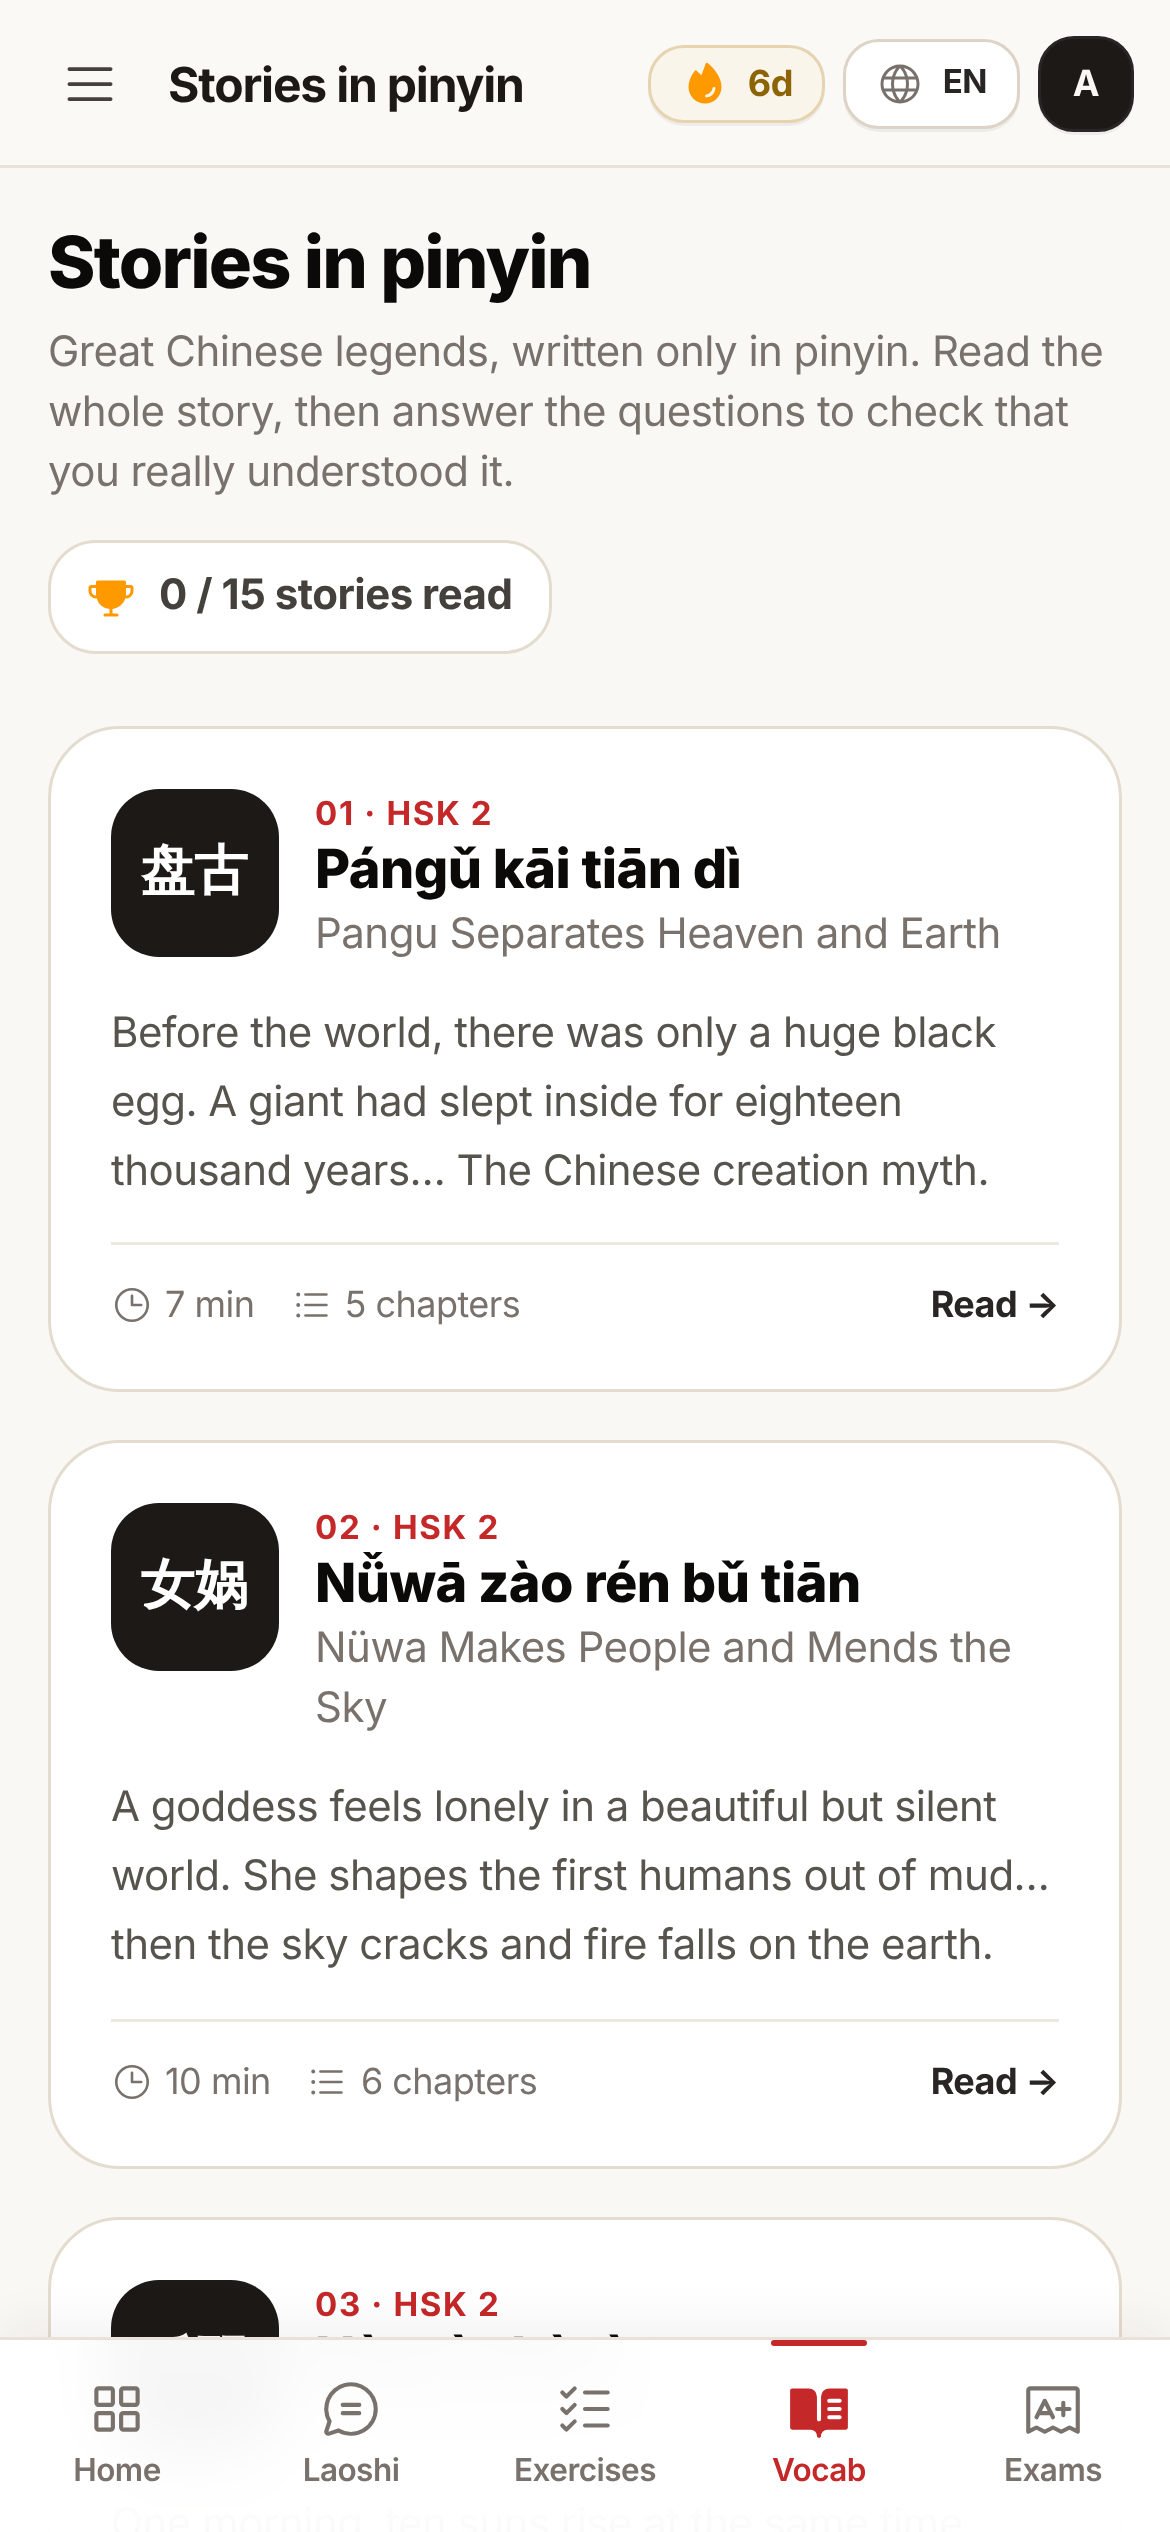
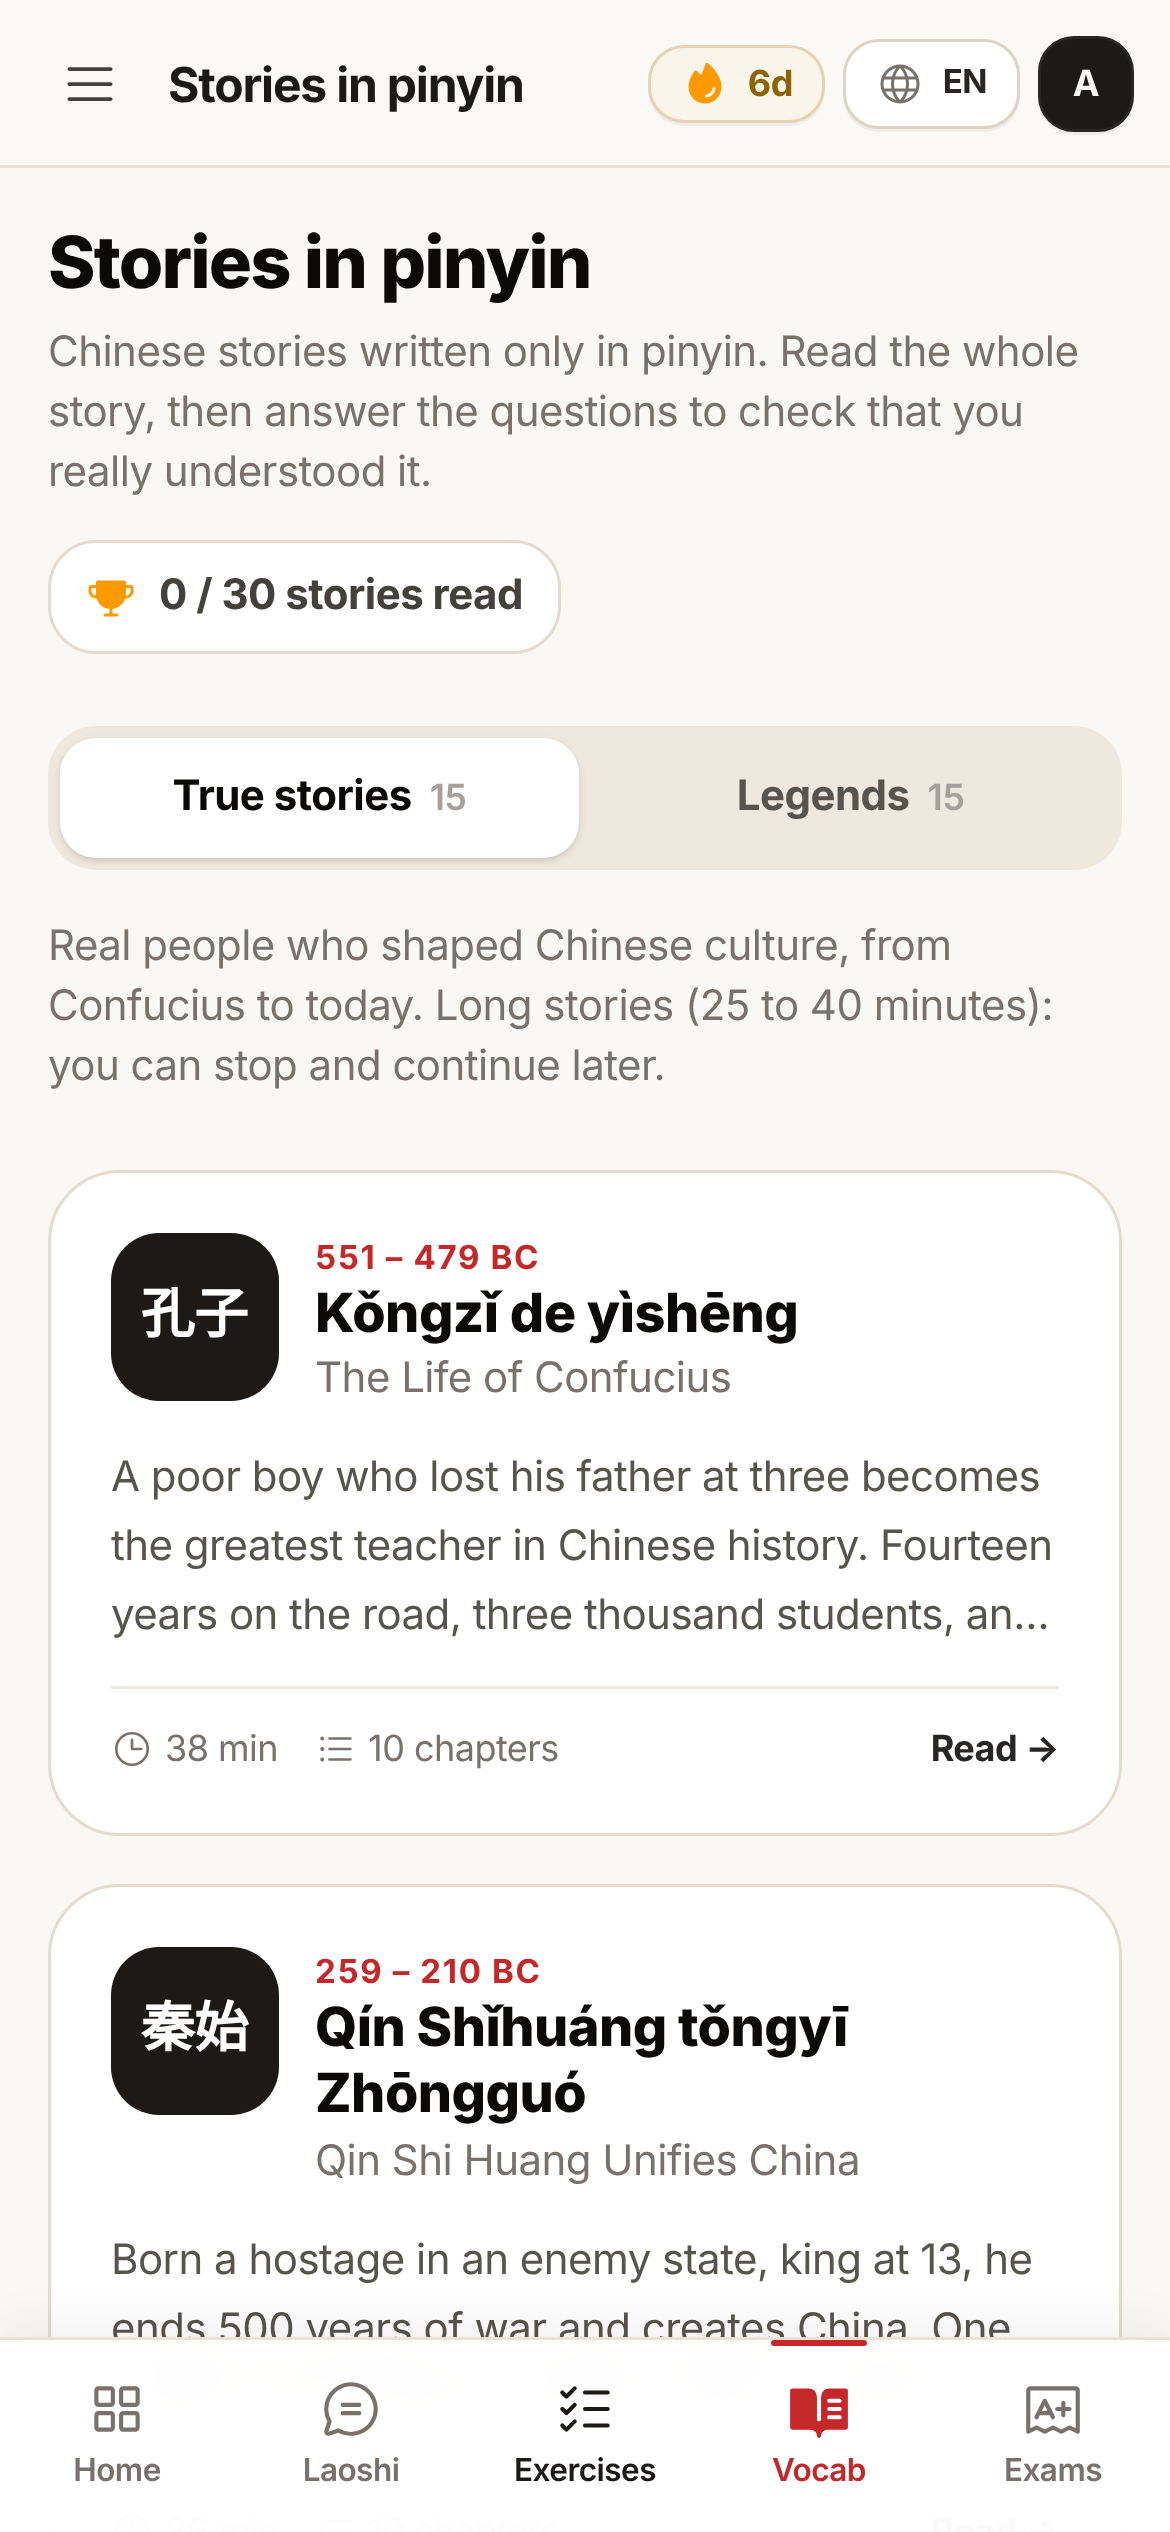
X thread, Facebook text and app features update for 2026-11-05
Claude-Session: https://claude.ai/code/session_01RtgC9DshBJoBH3ZRy4TPz1

diff --git a/assets/APP-FEATURES.md b/assets/APP-FEATURES.md
@@ -1,4 +1,4 @@
-# HSK Path — fonctionnalités de l'app (à jour : commit 773d5a9 de main, 2 nov. 2026)
+# HSK Path — fonctionnalités de l'app (à jour : commit 454f96d de main, 5 nov. 2026)
 
 Site : https://hsk-path-eosin.vercel.app — UI en anglais, français, chinois. PWA installable (s'ouvre hors ligne une fois connecté).
 Gratuit : tout le HSK 1. HSK 2 & 3 : 2 examens blancs + 2 leçons gratuits, le reste en Pro (ne jamais annoncer de prix).
@@ -7,15 +7,16 @@ Gratuit : tout le HSK 1. HSK 2 & 3 : 2 examens blancs + 2 leçons gratuits, le r
 - Cours HSK 1, 2, 3 (nouveau programme HSK 3.0) : leçons avec écran de félicitations (XP + « Next lesson »), leçons terminées cochées, progression réelle par niveau.
 - Vocabulaire : 1 000 mots HSK 1–3, révision espacée (SRS), mode flashcards, masquer le pinyin.
 - Everyday phrases : 168 phrases du quotidien par situation et par niveau, avec audio et bouton « dire la phrase ».
-- **Stories in pinyin (NOUVEAU)** : 15 légendes chinoises écrites en pinyin, avec lecteur, glossaire, audio et quiz de compréhension (13–14 questions par histoire).
-  HSK 2 : Pángǔ kāi tiān dì (Pangu), Nǚwā zào rén bǔ tiān (Nüwa), Hòuyì shè rì (Houyi), Cháng'é bēn yuè (Chang'e), Jīngwèi tián hǎi, Yúgōng yí shān (Foolish Old Man), Niánshòu (Nian monster), Shénbǐ Mǎ Liáng (Magic Brush).
+- **Stories in pinyin (NOUVEAU)** : 30 histoires écrites en pinyin (2 onglets : True stories 15 / Legends 15), avec lecteur, toucher un mot pour voir son sens, glossaire, audio, affichage 汉字 en option, traduction EN/FR (bouton Translation ou « See the translation » par paragraphe), quiz de compréhension (13–14 questions par histoire).
+  **True stories (nouveau, 15, niveau HSK 3, longues : 25–40 min, on peut s'arrêter et reprendre)** : Confucius, Qin Shi Huang, Zhang Qian (route de la soie), Sima Qian, Cai Lun (papier), Li Bing (Dujiangyan), Xuanzang, Jianzhen, Li Bai, Zheng He, Yue Fei, Li Shizhen, Zhan Tianyou (chemin de fer Pékin–Zhangjiakou), Tu Youyou (artémisinine), Yuan Longping (riz hybride).
+  **Legends (15, courtes : 7–15 min)** — HSK 2 : Pángǔ kāi tiān dì (Pangu), Nǚwā zào rén bǔ tiān (Nüwa), Hòuyì shè rì (Houyi), Cháng'é bēn yuè (Chang'e), Jīngwèi tián hǎi, Yúgōng yí shān (Foolish Old Man), Niánshòu (Nian monster), Shénbǐ Mǎ Liáng (Magic Brush).
   HSK 3 : Niúláng Zhīnǚ (Cowherd & Weaver Girl), Huā Mùlán, Bái shé zhuàn (White Snake), Butterfly Lovers, Mèng Jiāngnǚ, Monkey King in Heaven, Cǎo chuán jiè jiàn (Straw Boats).
 
 ## Parler (NOUVEAU)
 - **Pronunciation** : tons, mots HSK et phrases des leçons ; ta voix est comparée au modèle (voix homme/femme) avec retour sur les tons.
 - **Speaking practice partout** : « say it » sur les phrases et flashcards, jeux de rôle dans les leçons, répétition de répliques.
 - **HSK 3.0 speaking test** : 3 tâches (répéter des phrases, décrire une image, répondre à une question) avec transcription de la voix et retour de Laoshi ; test complet ~10 min.
-- Laoshi (tuteur IA) : conversation écrite ou à la voix, pinyin, explications (compte requis).
+- Laoshi (tuteur IA) : conversation écrite ou à la voix, pinyin, explications (compte requis). Depuis le 2 nov. : mène la leçon comme un professeur (enseigne un point à chaque tour, vérifie la compréhension) et garde le fil de la conversation.
 
 ## Pratique & examens
 - Practice Center : quiz quotidien adaptatif, écoute, lecture, écriture.
@@ -27,5 +28,5 @@ Gratuit : tout le HSK 1. HSK 2 & 3 : 2 examens blancs + 2 leçons gratuits, le r
 - Dashboard : prochaine leçon réelle, gros bouton démarrer / sauver la série.
 
 ## Captures (assets/app-screens/, mode démo — données d'exemple, ne pas présenter comme de vrais résultats)
-landing, dashboard, hsk-levels, vocabulary, phrases, novels (Stories in pinyin), pronunciation, speaking (HSK 3 speaking test),
+landing, dashboard, hsk-levels, vocabulary, phrases, novels (Stories in pinyin, onglet True stories), novels-legends (onglet Legends), novels-reader (lecteur avec traduction), pronunciation, speaking (HSK 3 speaking test),
 achievements (streak & badges), practice-hub, tutor (Laoshi), mock-tests, progress, listening-practice, quiz, review.
